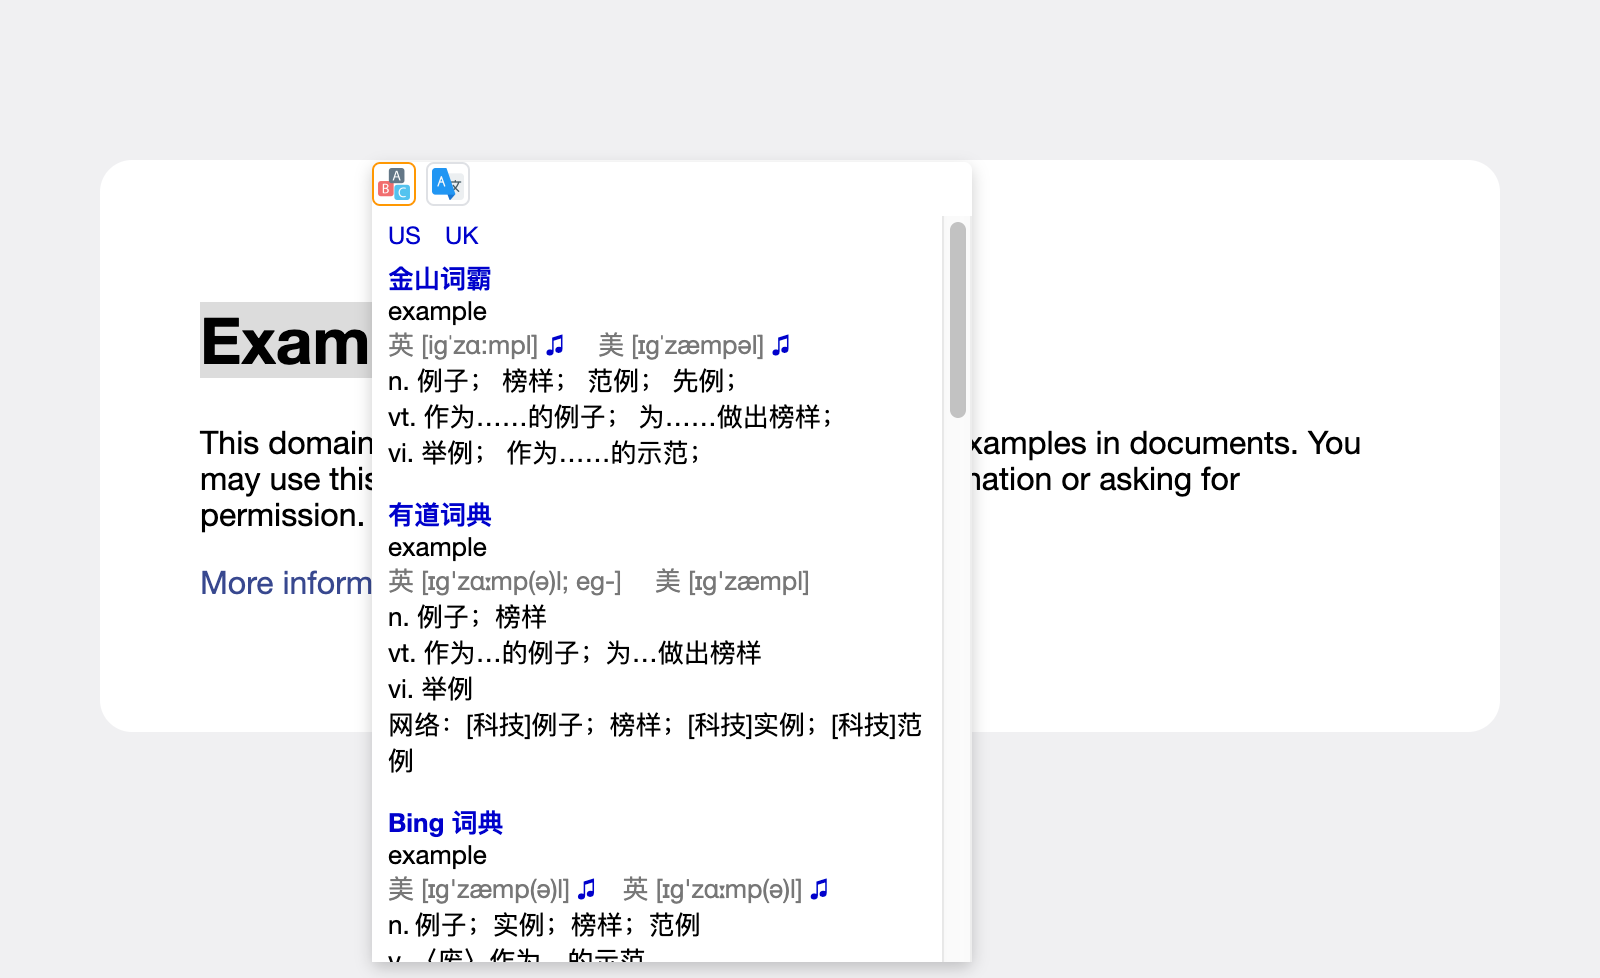
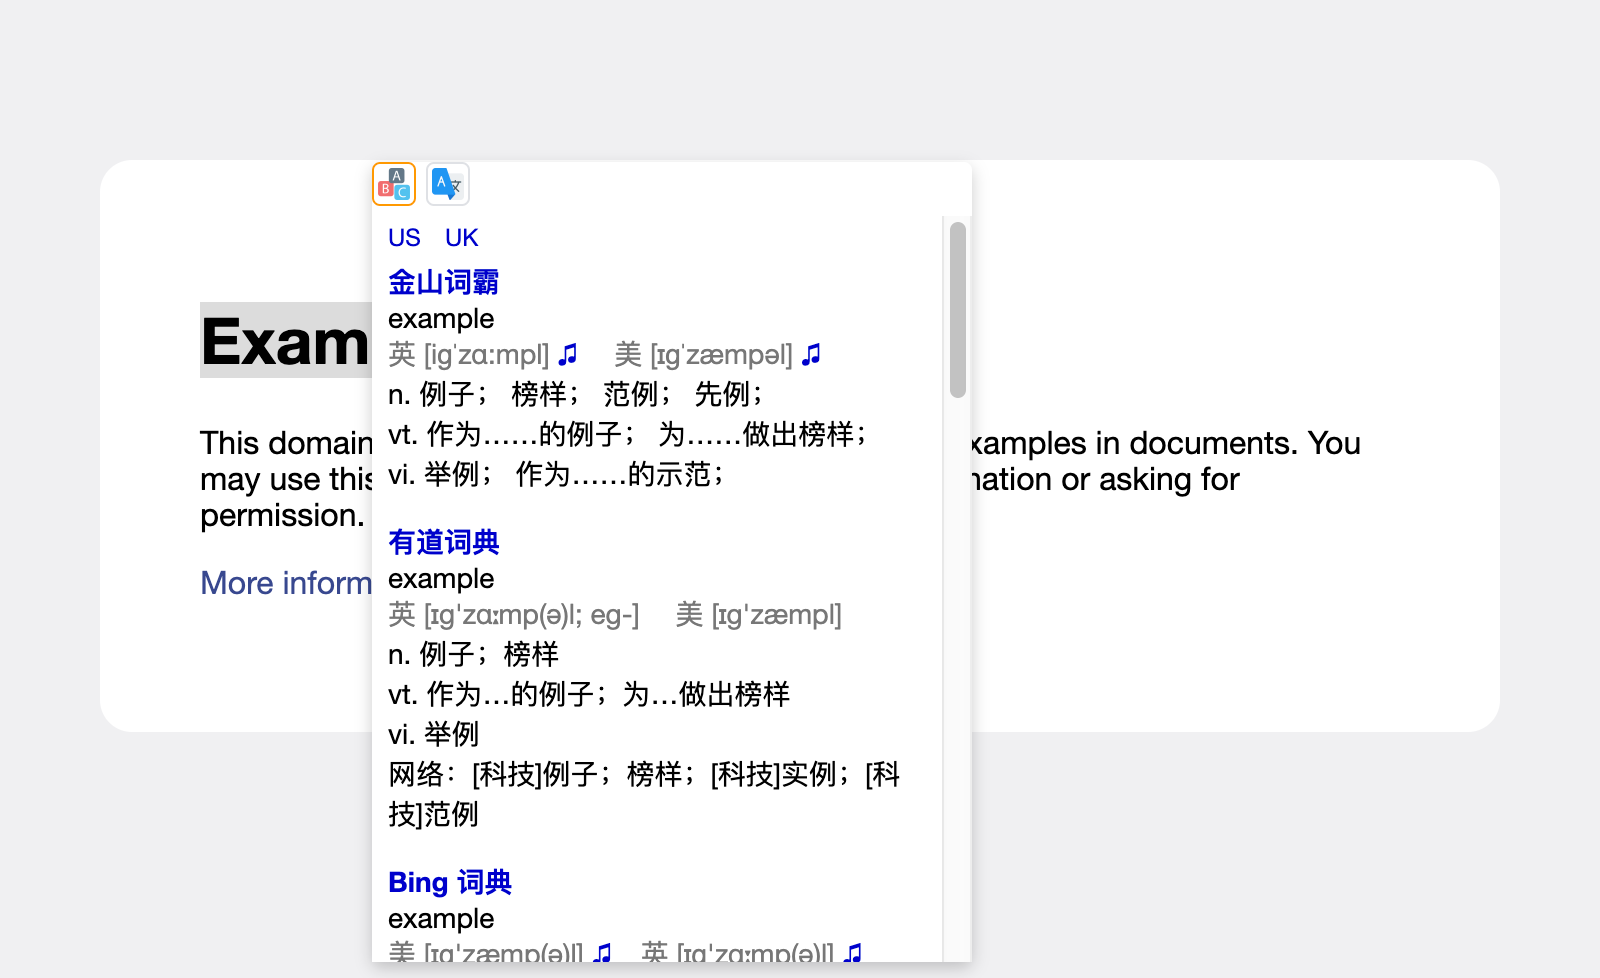
修改默认字体大小

Changed region(s): [[0.2188, 0.2454, 0.5938, 0.9816], [0.5938, 0.3988, 0.625, 0.4294], [0.25, 0.2147, 0.2812, 0.2454]]

diff --git a/translate/translate-dictionary.js b/translate/translate-dictionary.js
@@ -1,7 +1,7 @@
 // ==UserScript==
 // @name         划词翻译：多词典查询
 // @namespace    http://tampermonkey.net/
-// @version      6.1
+// @version      6.2
 // @description  划词翻译调用“有道词典（有道翻译）、金山词霸、Bing 词典（必应词典）、剑桥高阶、沪江小D、谷歌翻译”
 // @author       https://github.com/barrer
 // @match        http://*/*
@@ -24,10 +24,13 @@
     // Your code here...
     /**样式*/
     var style = document.createElement('style');
-    var iconWidth = 300;
-    var iconHeight = 400;
-    var trContentWidth = iconWidth - 16; // 最终宽度 - 边距间隔
-    var trContentHeight = iconHeight - 31; // 最终高度 - 边距间隔
+    // <--- 可以自定义的变量
+    var fontSize = 14; // 字体大小
+    var iconWidth = 300; // 整个面板宽度
+    var iconHeight = 400; // 整个面板高度
+    // 可以自定义的变量 ---> （自定义变量修改后把 “@version” 版本号改为 “10000” 防止更新后消失）
+    var trContentWidth = iconWidth - 16; // 整个面板宽度 - 边距间隔 = 翻译正文宽度
+    var trContentHeight = iconHeight - 31; // 整个面板高度 - 边距间隔 = 翻译正文高度
     style.textContent = `
     /*组件样式*/
     :host{all:unset!important}
@@ -42,12 +45,12 @@
     img[activate]{border:1px solid #f90}
     img[activate]:hover{border:1px solid #f90}
     table{font-size:inherit;color:inherit}
-    tr-icon{display:none;position:absolute;padding:0;margin:0;cursor:move;box-sizing:content-box;font-size:13px;text-align:left;border:0;border-radius:4px;color:black;z-index:2147483647;background:transparent}
+    tr-icon{display:none;position:absolute;padding:0;margin:0;cursor:move;box-sizing:content-box;font-size:${fontSize}px;text-align:left;border:0;border-radius:4px;color:black;z-index:2147483647;background:transparent}
     tr-icon[activate]{background:#fff;-webkit-box-shadow:0 3px 8px 0 rgba(0,0,0,0.2),0 0 0 0 rgba(0,0,0,0.08);box-shadow:0 3px 8px 0 rgba(0,0,0,0.2),0 0 0 0 rgba(0,0,0,0.08)}
     tr-audio{display:block;margin-bottom:5px}
     tr-audio a{margin-right:1em;font-size:80%}
     tr-audio a:last-of-type{margin-right:auto}
-    tr-content{display:block;width:${trContentWidth}px;height:${trContentHeight}px;overflow-x:hidden;overflow-y:scroll;background:white;padding:2px 8px;margin-top:5px;box-sizing:content-box;font-family:"Helvetica Neue","Helvetica","Arial","sans-serif";font-size:13px;font-weight:normal;line-height:normal;-webkit-font-smoothing:auto;font-smoothing:auto;text-rendering:auto}
+    tr-content{display:block;width:${trContentWidth}px;height:${trContentHeight}px;overflow-x:hidden;overflow-y:scroll;background:white;padding:2px 8px;margin-top:5px;box-sizing:content-box;font-family:"Helvetica Neue","Helvetica","Arial","sans-serif";font-size:${fontSize}px;font-weight:normal;line-height:normal;-webkit-font-smoothing:auto;font-smoothing:auto;text-rendering:auto}
     tr-engine~tr-engine{margin-top:1em}
     tr-engine .title{color:#00c;display:inline-block;font-weight:bold}
     tr-engine .title:hover{text-decoration:none}
